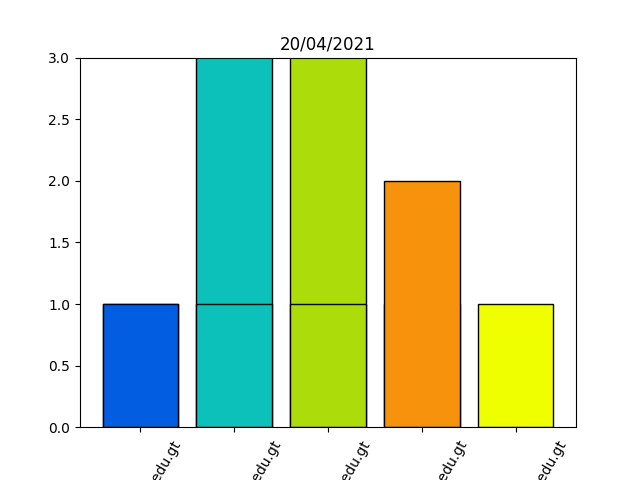
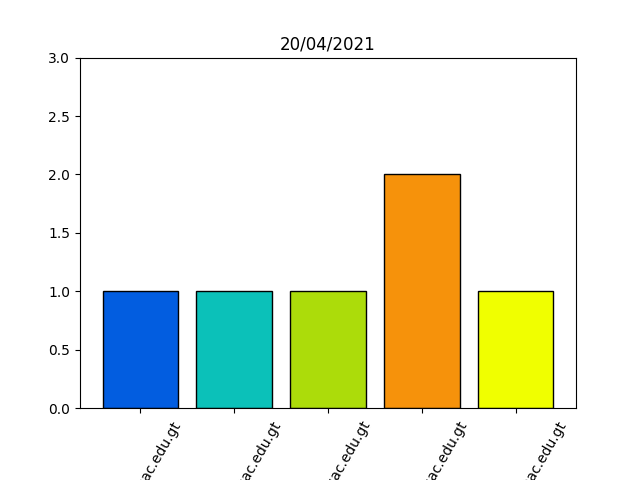
Commit 6

diff --git a/App/Aplicacion/templates/consulta_error.html b/App/Aplicacion/templates/consulta_error.html
@@ -5,7 +5,7 @@
     <meta charset="utf-8">
     <meta http-equiv="X-UA-Compatible" content="IE=edge">
     <meta name="viewport" content="width=device-width, initial-scale=1.0">
-    <title>Consulta por Fechas</title>
+    <title>Consulta por Error y Fecha</title>
 </head>
 {% load static %}
 <body background="{% static 'inicio.jpg' %}">
@@ -16,12 +16,12 @@
 </nav>
         <div>
           {% block content %}
-            <form action = "/enviar/" method="GET" >
+            <form action = "/enviacodigo/" method="GET" >
             {% csrf_token %}
           <button type="submit" id= "btn1" style='text-decoration: none;padding: 10px;font-weight: 600;font-size: 20px;color: #ffffff;background-color: #DC430A;border-radius: 6px;border: 2px solid #CA3A05; justify-content:center; ' >Consultar</button>
             <label for = "fname" ></label>
-             <input type="text" id="fname" name="fname">
-            <img src="{% static 'Grafica_Fechas.png' %}">
+             <input type="text" id="fnamee" name="fnamee">
+            <img src="{% static 'Grafica_errores.png' %}">
             </form>
               </div>
     </div>

diff --git a/App/Aplicacion/templates/consulta_fecha.html b/App/Aplicacion/templates/consulta_fecha.html
@@ -5,7 +5,7 @@
     <meta charset="utf-8">
     <meta http-equiv="X-UA-Compatible" content="IE=edge">
     <meta name="viewport" content="width=device-width, initial-scale=1.0">
-    <title>Consulta por Fechas</title>
+    <title>Consulta por Fechas y Usuarios</title>
 </head>
 {% load static %}
 <body background="{% static 'inicio.jpg' %}">
@@ -21,7 +21,7 @@
           <button type="submit" id= "btn1" style='text-decoration: none;padding: 10px;font-weight: 600;font-size: 20px;color: #ffffff;background-color: #DC430A;border-radius: 6px;border: 2px solid #CA3A05; justify-content:center; ' >Consultar</button>
             <label for = "fname" ></label>
              <input type="text" id="fname" name="fname">
-            <img src="{% static 'Grafica_Fechas.png' %}">
+            <img src="{% static 'Grafica_fechas.png' %}">
             </form>
               </div>
     </div>

diff --git a/Backend/Separador.py b/Backend/Separador.py
@@ -2,6 +2,7 @@ from xml.etree import ElementTree as ET
 import re
 import matplotlib.pyplot as plt
 global conteo_todo
+global conteo_todo_con_user
 class analizar:
     def expresiones(self):
         x = open("entrada.xml", "r")
@@ -24,6 +25,7 @@ class analizar:
         para_todo = []
         en_posicion0 = []
         global conteo_todo
+        global conteo_todo_con_user
         conteo_todo = []
         conteo_todo_con_user = []
         escritura = []
@@ -135,9 +137,32 @@ class analizar:
         plt.xticks(range(len(correos_grafica)), fechas, rotation=60)
         plt.title(str(fecha))
         plt.ylim(min(primas) - 1, max(primas) + 1)
+        plt.gcf().subplots_adjust(bottom=0.15)
         plt.savefig("C:/Users/Carlos Rangel/Documents/GitHub/IPC2_Proyecto3_201907636/App/Aplicacion/static/Grafica_fechas.png")
 
 
+    def peticion_error(self, codigo):
+        codigo_grafica = []
+        conteo_codigo_grafica = []
+        fecha_codigo_grafica = []
+        global conteo_todo_con_user
+        for p in conteo_todo_con_user:
+            j = str(p).find(codigo)
+            print(j)
+            if j >= 3:
+                codigo_grafica.append(p[0])
+                fecha_codigo_grafica.append(p[1])
+                conteo_codigo_grafica.append(p[2])
+
+        colores = ['#025DE0', '#0BC1B9', '#ACDC0A', '#F6920B', '#F0FF00', '#E01002', '#3C3B3D']
+        fechas = fecha_codigo_grafica
+        primas = conteo_codigo_grafica
+        plt.bar(range(len(fecha_codigo_grafica)), primas, edgecolor='black', color=colores)
+        plt.xticks(range(len(fecha_codigo_grafica)), fechas, rotation=60)
+        plt.title(codigo)
+        plt.ylim(min(primas) - 1, max(primas) + 1)
+        plt.xlabel()
+        plt.savefig("C:/Users/Carlos Rangel/Documents/GitHub/IPC2_Proyecto3_201907636/App/Aplicacion/static/Grafica_errores.png")
 
 
 

diff --git a/App/Aplicacion/views.py b/App/Aplicacion/views.py
@@ -60,16 +60,16 @@ def enviarinfo(request):
         fecha = fecha.replace("/", "-")
         resulto = requests.get(endpoint + 'fechas/' + fecha)
         print(fecha)
-        #form = EntradaFecha(request.GET)
-       # if form.is_valid():
-      #       fecha = fecha.replace("/", "-")
-    #        print(str(fecha))
-   #         resulto = requests.get(endpoint + 'fechas/' + fecha)
-  #      else:
- #           print("No entra")
     return render(request, 'consulta_fecha.html')
 
 def reset(request):
     if request.method == 'POST':
         respuesta = requests.post(endpoint + 'reseteado', data = "")
     return render(request, 'Inicio.html')
+
+def codigo(request):
+    if request.method == 'GET':
+        codigo = request.GET['fnamee']
+        resulto = requests.get(endpoint + 'codigos/' + codigo)
+        print(codigo)
+        return render(request, 'consulta_error.html')

diff --git a/Backend/main.py b/Backend/main.py
@@ -29,9 +29,18 @@ def resetear():
 @app.route('/fechas/<fecha>', methods=['GET'])
 def consulta(fecha):
     global separa
-    fecha = fecha.replace("-", "/")  #Antes de la funcion peticion borrar el archivo
+    fecha = fecha.replace("-", "/")                              #Antes de la funcion peticion borrar el archivo
     print(fecha)
     separa.peticion_fechas(fecha)
     return "Funciono"
+
+@app.route('/codigos/<codigo>', methods=['GET'])
+def consulta_cod(codigo):
+    global separa  #Antes de la funcion peticion borrar el archivo
+    print(codigo)
+    separa.peticion_error(codigo)
+    return "Funciono"
+
+
 if __name__ == "__main__":
     app.run(debug=True)

diff --git a/App/App/urls.py b/App/App/urls.py
@@ -23,5 +23,6 @@ urlpatterns = [
     path('salida/', views.salida, name = 'salidaxml'),
     path('consulta/', views.consulta_fech),
     path('enviar/', views.enviarinfo),
-    path('reset/', views.reset)
+    path('reset/', views.reset),
+    path('enviacodigo/', views.codigo)
 ]
